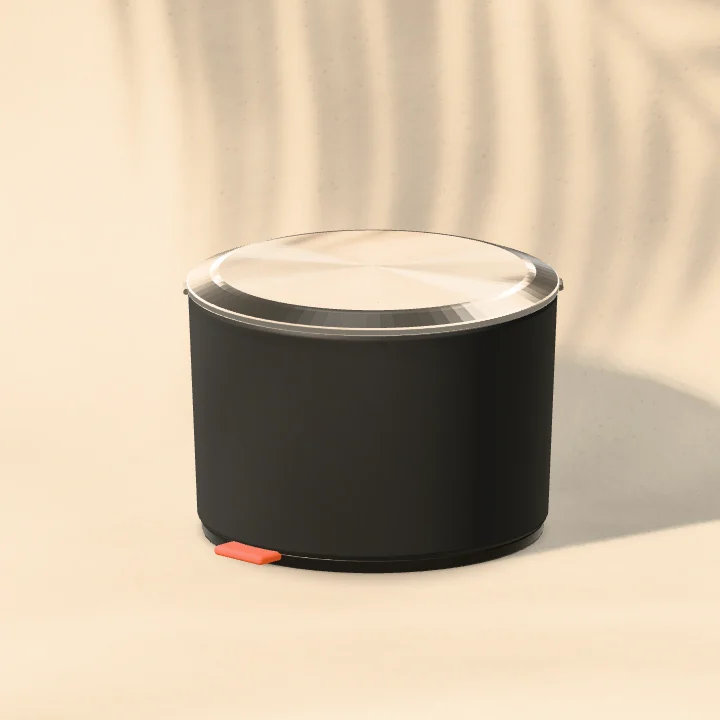
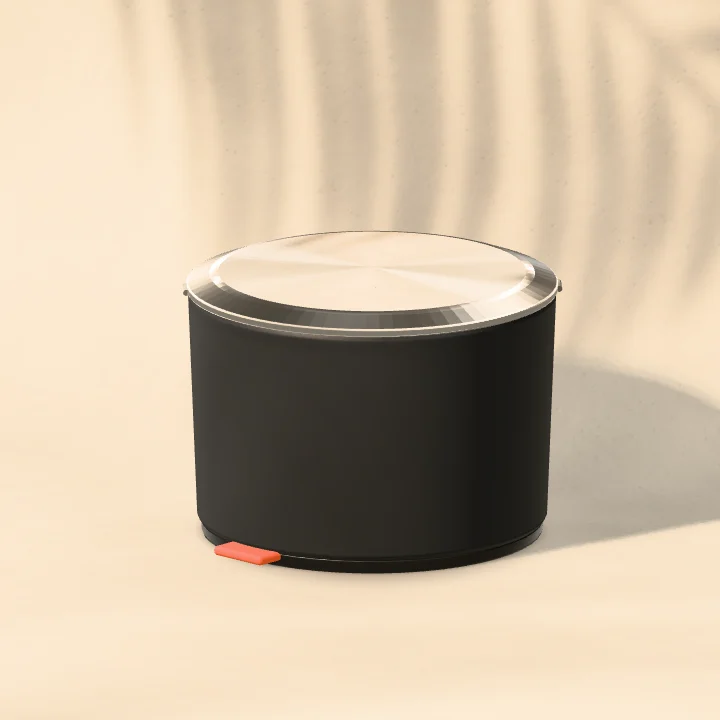
dinner: scene on the scan-to-CAD master(s): porcelain plate with gilt rim and the silver cloche's dome, no food
- recipe: dinner-plate.glb + silver-cloche.glb (tray dropped) at one scale (plate keeps the v1.1 1.6 diameter),
  cover pivot at the dome's rim centre, seated on the coupe rim inside the gilt band; per-assembly shadow proxies
- contract re-measured from the masters (plate profile, cover profile, seat), checked against the exported GLB
- choreography: handle-led reveal (guest-side rim tips first), rim-first set-downs, C1 into the rim rock (<= 1 deg);
  decline path unchanged
- no food, no Dinner preset control; one shared poster set; docs/scenes/dinner-v1.2.md

diff --git a/tests/dinner.test.ts b/tests/dinner.test.ts
@@ -160,7 +160,6 @@ describe('Dinner choreography', () => {
     // neighbours do not share (smooth acceleration changes every step alike). Allowed: the height
     // kinks only where the rim rock passes level (it switches the rim it rocks on: a rigid contact).
     const h = 0.001;
-    const kink = (prev: number, cur: number, next: number) => Math.abs(cur - prev) > 0.01 + 4 * Math.max(Math.abs(prev - (2 * prev - cur)), Math.abs(next - cur), 1e-9) && Math.abs(cur - prev) > 4 * Math.abs(next - cur);
     for (const seq of ['host', 'accept'] as const) {
       const vel = (t: number) => {
         const a = at(seq, t), b = at(seq, t + h);
@@ -178,7 +177,6 @@ describe('Dinner choreography', () => {
         }
       }
     }
-    void kink;
   });
 
   it('covering and uncovering never pass the cover through the plate or the table (real master geometry)', () => {

diff --git a/src/scenes/dinner/sequences.ts b/src/scenes/dinner/sequences.ts
@@ -58,7 +58,6 @@ export const COVER_DIR = new Vector3(COVER_SEATED.x - COVER_POISED.x, 0, COVER_S
 
 const euler = new Euler();
 const rk = new Vector3();
-const pivot = new Vector3();
 /**
  * Cover pose from its untilted path point `base` (where cover_authored would be, level), a lean θ
  * about up × dir (θ > 0 dips the rim on the +dir side) and a pivot `k` in cover space: the pivot

diff --git a/docs/scenes/dinner-v1.2.md b/docs/scenes/dinner-v1.2.md
@@ -1,0 +1,112 @@
+# Dinner v1.2: the cloche and the clean plate on the scan-to-CAD masters
+
+Owner's direction (Surya, 2026-10-01): same beats, higher fidelity, the new models, **no food**. The scene is the
+porcelain plate with its gilt rim (`dinner-plate.glb`) and the silver cloche's dome assembly (`silver-cloche.glb`
+minus its tray). Recipe: `scripts/masters/recipes/dinner.ts`; contract: `models/dinnerContract.ts`; rig:
+`models/dinner.ts`; choreography: `src/scenes/dinner/sequences.ts`.
+
+## Decisions
+
+- **No food, no preset control.** The pasta and vegetable builders and the code-authored v1.1 plate and cloche
+  (`models/dinnerParts.ts`, 1.9k lines) are deleted. The builder (`buildDinnerGeometry(…, { parts: 'skeleton' })`)
+  supplies only the contract's empty nodes. The host panel renders no preset fieldset for Dinner
+  (`src/demo/main.ts`, the one shared-UI edit this phase allows); `dish` stays in `SceneConfig` and
+  `DEFAULT_CONFIGS` and selects nothing (`DinnerScene.setConfig` is a no-op; the rig's `setPreset` is kept as a no-op).
+- **One poster set.** `assets/scenes/dinner/posters/shared-{host-ready,guest-ready,accepted,declined}.webp`;
+  `posterUrl` falls back to `shared-*` for both `dish` values. The per-dish files are removed.
+- **One scale for both masters**, `DISH_SCALE = 0.8 / 0.9525 = 0.83990`: the plate keeps the v1.1 plate's 1.6
+  diameter, so the framing matches the v1.1 stills, and the cloche keeps its real size against the plate (it was
+  built on a tray the plate's own size).
+- **Mapping.** `plate` → `plate_body` (`plate_porcelain`, clearcoat kept), `gilt-rim` → `plate_gilt`
+  (`plate_gilt_metal`, ownEnv 1.1), both under `plate_secondary`, aligned so the plate's flat underside centre is
+  the origin. Cloche: `tray` dropped; `dome` → `cover_mesh`, `handle` → `cover_handle`; the lip bead, both applied
+  bands and the finial stay under `cover_secondary` and are joined per material (4 meshes → 2). Aligned so the
+  bottom centre of the lip bead (the dome's rim centre) is `cover_secondary`'s origin: `cover_authored` seats on
+  and rocks about its rim.
+- **Seat.** The bead's outer flank rests on the coupe rim's slope just inside the gilt band (contact at
+  r ≈ 0.646, measured against the plate's upward-facing vertices in 1 mm radial bins, clearance 0.1 mm). The dome
+  covers the whole well and the gilt band stays visible all round it.
+- **Silver.** Every silver part keeps its master material renamed `cloche_*` with its own environment. The dome's
+  master roughness map is near-uniform 0.09–0.13; at that polish the dome showed the studio softbox as hard
+  rectangular windows (rendered and compared: master map, 0.12, 0.16, 0.18, 0.20 at env 1.35–2.0). The dome is
+  set to a uniform roughness 0.20 at load (`finishDish`, see gaps) with its own environment at 1.35: soft highlight
+  bands, no hard gobo or window shapes, and enough contrast to read as metal. Higher env (1.6–2.0) whitened the
+  dome but flattened it towards frosted ceramic, so 1.35 stays. The bead, bands, finial and handle keep the
+  master's burnished, turned and buffed values at ownEnv 1.1. The gilt rim catches the key on the reveal.
+- **Shadows.** One decimated proxy per moving assembly: `cover_shadow_proxy` under `cover_secondary` (tilts and
+  travels with the cover), `plate_shadow_proxy` under `plate_secondary`. The masters skip the shadow pass. The
+  contact shadows (dish, cover beside the plate, bin) are unchanged from v1.1.
+- **Food constants collapse to the plate.** `FOOD` and `COVER_CLEARANCE` are gone. `SAFE_SKIRT` (the rim height
+  whenever the cover moves over the plate) is now `PLATE.rimHeight + 0.31` = 0.433: the plate's gilt rim plus a
+  margin that keeps the v1.1 lift above the seat, so the host and reveal beats keep their heights and pace. The
+  clearance tests run against the real plate geometry read from the exported GLB.
+
+## Measured contract (master × DISH_SCALE, checked against the exported GLB in `tests/dinner.test.ts`)
+
+| Constant | Value | Meaning |
+| --- | --- | --- |
+| `PLATE.radius` | 0.8 | gilt edge |
+| `PLATE.rimHeight` | 0.1232 | top of the gilt band |
+| `PLATE.well` / `wellRadius` | 0.0281 / 0.455 | flat well top and its extent |
+| `PLATE.giltRadius` | 0.7727 | inner edge of the gilt band |
+| `PLATE_PROFILE` | 38 pairs | conservative upper bound of the top surface (every vertex below it) |
+| `COVER.radius` / `lipRadius` | 0.6534 / 0.642 | bead outer radius / its lowest ring (the rocking rim) |
+| `COVER.domeHeight` / `height` | 0.6333 / 0.8491 | crown (finial base) / handle top |
+| `COVER.grip` | 0.81 | handle loop's top bar (carry pivot) |
+| `COVER_SEATED` | (0, 0.0946, 0) | seated cover origin |
+| `DISH_HEIGHT` | 0.9437 | underside to handle top (still drops below the bin rim before the flaps close) |
+
+## Choreography: what changed and why
+
+Durations are unchanged (host 1.2 s, accept 1.5 s, decline 1.5 s). Every tilt is a lean θ about up × the direction
+of travel, applied about a pivot in cover space (`poseAbout`): the rim point that touches the plate or table while
+it is in contact, the handle's grip while it is carried, blended smoothly between them. That one rule gives:
+
+- **Handle-led reveal (accept).** The guest-side rim rises first (θ peaks 4.5° at 0.18 s) while the far rim stays on
+  the plate; lift-off from 0.10 s; the cover levels by 0.50 s at the top (`REVEAL_TOP` = 0.593) while it already
+  travels across; it comes down far rim first (≈3.5° landing lean) at 0.80 s, its trailing side lowers onto the
+  table by 0.86 s and it rocks once on its rim (≤ 1°, ~0.95° peak) until 1.31 s, then holds the accepted pose.
+- **Host.** Unchanged path (preparatory rise, align and lower through `SAFE_SKIRT` at 0.60 s without stopping); the
+  poised lean now eases out about the landing rim, so the cover touches its leading rim at 0.84 s, the back comes
+  down by 0.90 s and the rim rock follows into guest-ready.
+- **C1 at every contact.** The set-down's θ arrives at exactly the rock's starting angular rate, so tilt, plan
+  position and height are C1 at every beat boundary (1 ms velocity test); only the height may kink where the rock
+  passes level (it changes the rim it rocks on, a rigid contact).
+- **Decline** keeps its v1.1 path: the covered dish as one unit, up–across–down into the bin, flaps closing once the
+  handle is below the rim.
+
+Verified by looking: `outputs/dinner/` stills and every frame strip of host, accept, decline and change (the
+change clip cuts to the covered dish once the cover is aside, as v1.1 did).
+
+## Export report (`pnpm models dinner`, deterministic: two exports, identical SHA-1 576f0c31…)
+
+```
+triangles 146,944 · draw calls 6 (+ 2 shadow proxy, 5,277 tris, shadow pass only) · 19 nodes
+textures 1 · 5.3 MiB as RGBA8 + mips
+  1024×1024 webp 6 KiB  metallicRoughnessTexture of cloche_dome
+GLB 3412.5 KiB raw · 1963.0 KiB gzip
+contract nodes found (10), missing: none
+```
+
+Frame cadence (`pnpm capture perf dinner`, M2 Pro, 390×844 @3x, Normal tier): p50 16.7 ms, p99 16.8 ms, max
+16.8 ms, 0 frames over 50 ms over 902 frames (the 4× CPU simulation is the same).
+
+## Known gaps
+
+- **Roughness above a map.** The recipe's material policy can only scale a roughness map down (glTF factor × map),
+  so the dome's uniform 0.20 is set at load by `finishDish` (models/dinner.ts), which also frees the map. The map
+  still travels in the GLB (6 KiB). A recipe option to drop a texture slot would move this into the export.
+- **Capture plan.** `scripts/capture.ts` (shared) still lists Dinner's two `dish` presets, so a capture writes
+  `capture-pasta-*` / `capture-vegetables-*` stills and `*-vegetables` clips that are identical to the first set,
+  and stages per-dish posters. This pass ran it with `CAPTURE_STAGE_ONLY=1` and installed the four posters as
+  `shared-*` by hand (pasta and vegetables were byte-identical). A plain `pnpm capture dinner` would copy
+  `pasta-*` / `vegetables-*` posters back into `assets/`; the capture plan should become one preset with all
+  poses shared.
+- **Studio environment.** The stage environment has no dark horizon, so the polished dome reads as bright silver
+  with soft highlight bands rather than the master viewer's room reflections; raising its environment further
+  flattens it. A per-scene environment is a stage (shared) change.
+- **Rock on a slope.** The seated cover's rock is computed as a rock on a flat surface about the bead's lowest ring;
+  on the plate's coupe slope the far side dips by at most 1 mm into the 1 mm surface bins (tested), invisible at
+  the stage's scale.
+- **`study.html` / gallery thumbnails** (`src/demo/*`, shared) were not touched; the collection thumbnail
+  `assets/ui/collection/dinner.webp` is the new guest-ready render.
